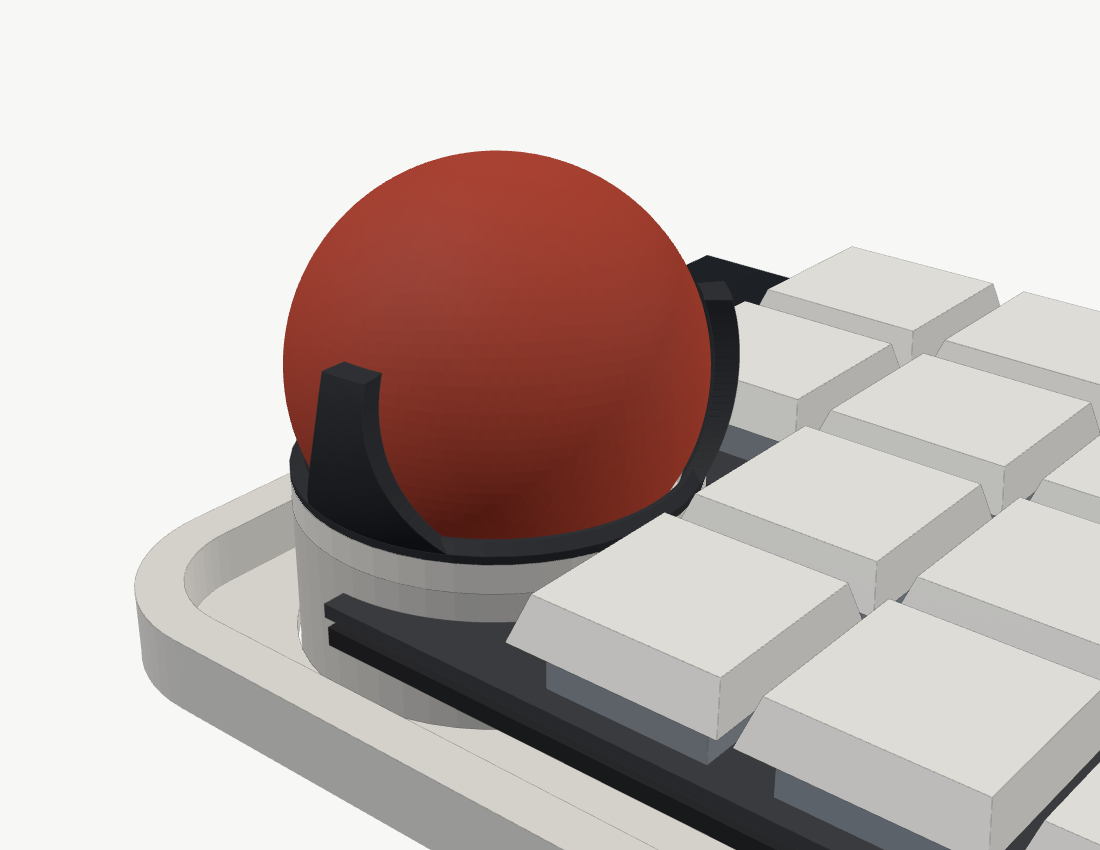
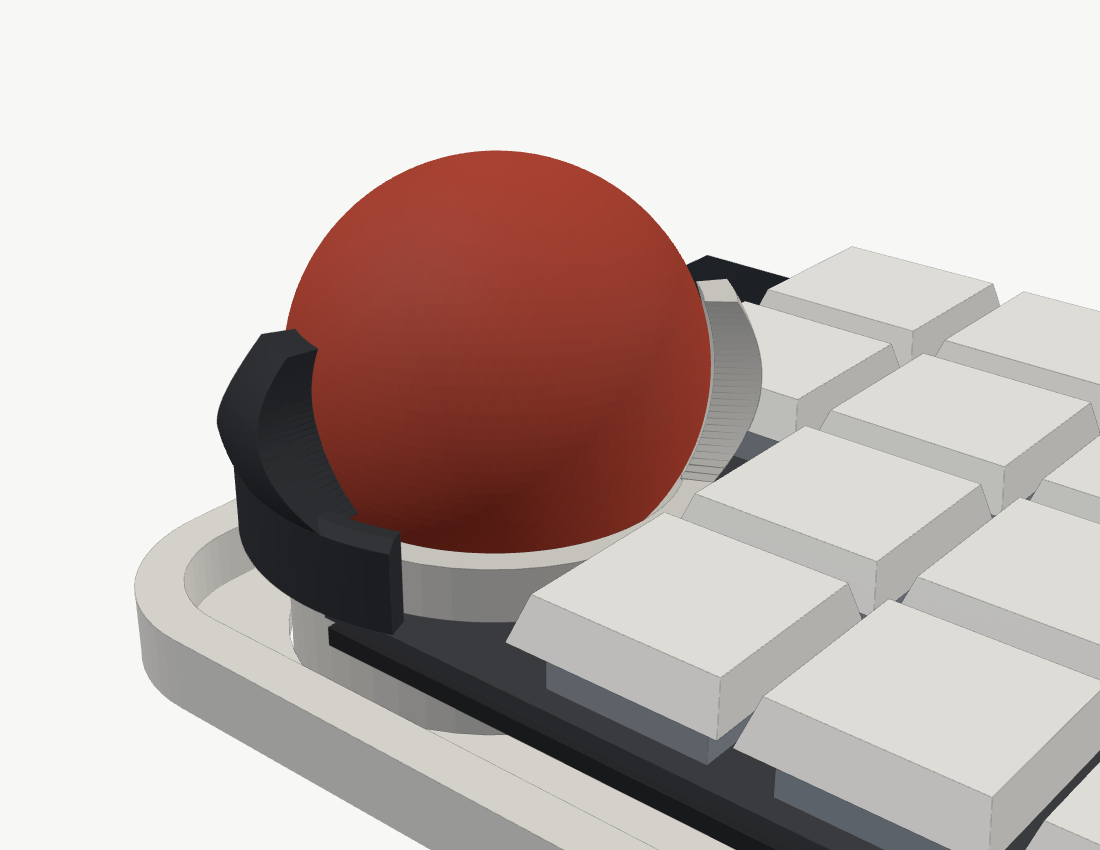
Concept: dedicated 34mm ball unit with fixed claw and outer twist-lock hood
Claude-Session: https://claude.ai/code/session_017zNm7dMSTHELcztuNr6aNy

Changed region(s): [[0.1855, 0.3059, 0.7109, 0.7953], [0.4018, 0.8565, 0.4636, 0.8871], [0.3709, 0.8259, 0.4018, 0.8565]]

diff --git a/case/concept_ukishima.py b/case/concept_ukishima.py
@@ -31,10 +31,30 @@ bu.BASE_FLOOR = 1.0
 bu.SENSOR_TOP = bu.BASE_FLOOR - bu.SENSOR_POCKET + bu.SENSOR_T
 bu.BALL_BOTTOM = bu.SENSOR_TOP + bu.LENS_H + bu.LENS_GAP
 
-# --- 34mm ボール (画像用): 土台は同じ (外径 34mm)。ボールが外径いっぱいなので専用のカップと低いリングを使う ---
-# ベアリングはボールの下寄り (55°) で支え、爪はキーのない 3 か所でキーキャップより上を外へふくらむ
+# --- 34mm ボール: 専用ユニット (人差し指と中指で転がす向き) ---
+# 34mm はボールが重く、指で押す力も大きいので、25 / 19mm と土台を共用しない。
+#  - 土台とカップを一体に (受けの壁が 2 重にならない分、壁が厚い)。外径 35.4mm (基板の穴 36mm に収まる)
+#  - ボールの一番太い所 (赤道) がキーキャップより上にあるので、ボールの下半分を囲むリングは作れない
+#    (リングがボールに引っかかって、カバーが外せなくなる)。カバーは「赤道より下ではボールの外側だけ」を通る形にする
+#  - 爪 3 本: 45° (キーの角のあいだ) は土台と一体の「固定の爪」。170° と 250° はカバーの爪
+#  - カバーは、キーも基板もない左手前の空き (140〜290°) を囲む「フード」。外側でひねってロックする
+#  - 指は右手前から来る (ボールの手前に手のひら) ので、そこ (爪のすき間 155° の真ん中) を広くあける
 bu.CUPS[34] = {"R": 17.0, "contact": 55}
-RING_TOP_34 = 17.5                # 34mm のリングの上面 (ボールが太いので低くして、壁の厚さを確保)
+U34_R = 17.7                      # 34mm ユニットの外径 (半径)。基板・プレートの穴 (半径 18) とのすき間 0.3mm
+U34_TOP = 16.0                    # 一体型の受けの上面
+CLAWS_34 = (45, 170, 250)         # 爪の向き (すき間 125° / 80° / 155°)
+FIXED_CLAW_34 = 45                # 土台と一体の爪
+FIXED34_ROOT_W, FIXED34_MAX_R = 11.0, 20.0     # 固定の爪: キーの角のあいだ (約 6mm) に収まる幅・ふくらみ
+CLAW34_ROOT_W, CLAW34_TIP_W, CLAW34_TIP_T = 18.0, 5.0, 2.6
+CLAW34_BULGE = 1.2                # 34mm の爪の中ほどを厚くする量
+# フード (カバー): 左手前の空きを囲む C 形の壁。ひねってロック (さし込む時は +30° の位置)
+HOOD34_A = (140, 290)             # フードの範囲 (ロックした時)
+HOOD34_IN, HOOD34_OUT = 19.4, 21.4
+HOOD34_Z0, HOOD34_TOP = 11.9, 19.5    # 下はプレートの上面 (11.65) より上・上はキーキャップより上
+LOCK34_A = (180, 260)             # ツメの位置 (ロックした時)。基板の切り欠きの中
+LOCK34_W = 20.0                   # ツメの幅 (角度)
+LEDGE34_Z0, LEDGE34_Z1, LEDGE34_R = 13.0, 14.2, 19.2   # 土台の外の出っぱり (ツメがこの下に入る)
+HOOK34_Z0, HOOK34_Z1, HOOK34_R = 11.9, 12.9, 18.0      # フードの内側のツメ
 
 # --- 高さ (机から) ---
 FLOOR = 1.5          # トレイの床
@@ -100,30 +120,20 @@ def keycap(x, y, z0, z1):
     return mf.Manifold.batch_hull([lo, hi])
 
 
-def claw_cover(size):
-    """低いリング＋爪 3 本の「爪留め」カバー。ひねってロックする部分は ball_unit と同じ (34mm は未設計)"""
+def claws(size, cz, rin, ring_top, r_base, angles, root_w, tip_w, tip_t, low_max=None, bulge=0.0):
+    """爪 (リングの外周から曲線で立ち上がり、ボールにそって先が 0.7mm かぶる)"""
     R_ = bu.CUPS[size]["R"]
-    cz = bu.BALL_BOTTOM + R_
-    ring_top = RING_TOP_34 if size == 34 else RING_TOP
-    ring = k.cyl(0, 0, bu.CUP_TOP, ring_top, bu.UNIT_R)
-    if size != 34:
-        ring = ring - k.cyl(0, 0, bu.CUP_TOP - 1, ring_top + 1, R_ + 0.8)
-    # 上の外側の角を丸く見せる面取り
-    ring = ring - (k.cyl(0, 0, ring_top - 0.8, ring_top + 0.01, bu.UNIT_R + 1) -
-                   k.cyl(0, 0, ring_top - 0.8, ring_top + 0.01, bu.UNIT_R, bu.UNIT_R - 0.8))
-    rin = R_ + 0.3                                           # 爪の内側 (ボールとのすき間 0.3mm)
     tip_r = R_ - CLAW_OVER                                   # 爪の先の半径
     tip_z = cz + (rin**2 - tip_r**2) ** 0.5                  # 爪の先の高さ (ボールの赤道より上)
-    claws = []
-    r_base = bu.UNIT_R                                       # 根元の外側 = リングの外周
-    r_tip = tip_r + CLAW_TIP_T                               # 先の外側
+    r_tip = tip_r + tip_t                                    # 先の外側
     z_root = ring_top - 0.8
     h = tip_z - z_root
 
     def ball_r(z):
         return math.sqrt(max(rin**2 - (z - cz)**2, 0))
     t_root = r_base - ball_r(z_root)                         # 根元の厚さ (ボールの外側へ)
-    for a in CLAWS:
+    out = []
+    for a in angles:
         slices = []
         for i in range(CLAW_STEPS + 1):
             t = i / CLAW_STEPS
@@ -131,16 +141,43 @@ def claw_cover(size):
             # 外側の面: 根元では縦 (リングの外周に接する)、先に向かって内側へ曲がる
             r_out = r_tip + (r_base - r_tip) * math.cos(math.pi / 2 * t)
             # 大きいボール (34mm) は赤道がリングより上なので、ボールの丸みに沿って外へふくらませる
-            r_out = max(r_out, ball_r(z) + t_root + (CLAW_TIP_T - t_root) * t)
+            r_out = max(r_out, ball_r(z) + t_root + (tip_t - t_root) * t + bulge * math.sin(math.pi * t))
+            if low_max and z < KEY_TOP + 0.5:
+                r_out = min(r_out, low_max)                  # キーキャップの高さまではふくらませない
             # 幅: 根元は広く、先へ向かって曲線で細くなる
-            w = CLAW_TIP_W + (CLAW_ROOT_W - CLAW_TIP_W) * (1 - t) ** 2.2
+            w = tip_w + (root_w - tip_w) * (1 - t) ** 2.2
             half = math.degrees(w / 2 / r_out)
             slices.append(bu.sector(0, r_out, a - half, a + half, z - 0.01, z))
-        claws.append(k.union([mf.Manifold.batch_hull([slices[n], slices[n + 1]]) for n in range(CLAW_STEPS)]))
-    m = ring + k.union(claws)
-    m = m - mf.Manifold.sphere(rin, 128).translate([0, 0, cz])              # 爪の内側をボールに沿わせる
+        out.append(k.union([mf.Manifold.batch_hull([slices[n], slices[n + 1]]) for n in range(CLAW_STEPS)]))
+    return k.union(out), tip_z
+
+
+def chamfer_top(m, z, r):
+    """上の外側の角を丸く見せる面取り"""
+    return m - (k.cyl(0, 0, z - 0.8, z + 0.01, r + 1) - k.cyl(0, 0, z - 0.8, z + 0.01, r, r - 0.8))
+
+
+def claw_cover(size):
+    """低いリング＋爪 3 本の「爪留め」カバー。ひねってロックする"""
+    R_ = bu.CUPS[size]["R"]
+    cz = bu.BALL_BOTTOM + R_
+    rin = R_ + 0.3                                           # 爪の内側 (ボールとのすき間 0.3mm)
+    ball = mf.Manifold.sphere(rin, 160).translate([0, 0, cz])
     if size == 34:
-        return m, tip_z
+        a0, a1 = HOOD34_A
+        hood = chamfer_top(bu.sector(HOOD34_IN, HOOD34_OUT, a0, a1, HOOD34_Z0, HOOD34_TOP), HOOD34_TOP, HOOD34_OUT)
+        hooks = k.union([bu.sector(HOOK34_R, HOOD34_IN + 0.1, L - LOCK34_W/2, L + LOCK34_W/2, HOOK34_Z0, HOOK34_Z1)
+                         for L in LOCK34_A])
+        cl, tip_z = claws(34, cz, rin, HOOD34_TOP, HOOD34_OUT, [a for a in CLAWS_34 if a != FIXED_CLAW_34],
+                          CLAW34_ROOT_W, CLAW34_TIP_W, CLAW34_TIP_T, bulge=CLAW34_BULGE)
+        m = hood + hooks + (cl - k.cyl(0, 0, 0, HOOD34_Z0 + 0.5, 40))
+        # 赤道より下ではボールの外側だけ (上へ抜ける)・土台にも触れない
+        m = m - k.cyl(0, 0, 0, cz, R_ + 0.3) - k.cyl(0, 0, 0, U34_TOP + 0.5, U34_R + 0.2)
+        return m - ball, tip_z
+    ring = k.cyl(0, 0, bu.CUP_TOP, RING_TOP, bu.UNIT_R) - k.cyl(0, 0, bu.CUP_TOP - 1, RING_TOP + 1, R_ + 0.8)
+    ring = chamfer_top(ring, RING_TOP, bu.UNIT_R)
+    cl, tip_z = claws(size, cz, rin, RING_TOP, bu.UNIT_R, CLAWS, CLAW_ROOT_W, CLAW_TIP_W, CLAW_TIP_T)
+    m = (ring + cl) - ball                                                  # 爪の内側をボールに沿わせる
     spigot = (k.cyl(0, 0, bu.RECESS_Z + 0.2, bu.CUP_TOP + 0.01, bu.SPIGOT_R) -
               k.cyl(0, 0, bu.RECESS_Z, bu.CUP_TOP + 1, R_ + 0.5))
     lugs = k.union([bu.sector(bu.SPIGOT_R - 0.3, bu.LUG_R, L - bu.LUG_W/2, L + bu.LUG_W/2,
@@ -148,15 +185,50 @@ def claw_cover(size):
     return m + spigot + lugs, tip_z
 
 
-def ball_cup(size):
-    if size != 34:
-        return bu.cup(size)
-    keep = bu.LUG_ANGLES, bu.CLEAR
-    bu.LUG_ANGLES, bu.CLEAR = (), 0.5          # 34mm: ひねるロックの溝はまだ無し (専用のロックは今後)
-    try:
-        return bu.cup(34)
-    finally:
-        bu.LUG_ANGLES, bu.CLEAR = keep
+def base34():
+    """34mm 専用: 土台とカップが一体の受け。底は 25 / 19mm の土台と同じ (センサー・ネジ 3 本・ケーブルの出口)"""
+    R = 17.0
+    cz = bu.BALL_BOTTOM + R
+    m = k.cyl(0, 0, 0, U34_TOP, U34_R)
+    m = m - k.cyl(0, 0, bu.BASE_FLOOR, bu.CUP_BOTTOM, U34_R - 1.5)                       # センサーの部屋
+    bosses, cut = [], []
+    for a in k.BALL_SCREW_ANGLES:
+        x, y = bu.polar(k.BALL_SCREW_R, a)
+        bosses.append(k.cyl(x, y, 0, bu.CUP_BOTTOM, bu.BOSS_R))
+        cut.append(k.cyl(x, y, -1, bu.INSERT_DEPTH, bu.INSERT_R))
+    m = (m + k.union(bosses)) - k.union(cut)
+    cut = [
+        k.cube(-bu.SENSOR_W/2 - 0.2, -bu.SENSOR_L/2 - 0.2, bu.BASE_FLOOR - bu.SENSOR_POCKET,
+               bu.SENSOR_W/2 + 0.2, bu.SENSOR_L/2 + 0.2, bu.BASE_FLOOR + 1),
+        bu.rot_z(k.cube(-4.5, U34_R - 3, bu.BASE_FLOOR - bu.SENSOR_POCKET, 4.5, U34_R + 1, 5.5), bu.CABLE_ANGLE - 90),
+        mf.Manifold.sphere(R + 0.5, 160).translate([0, 0, cz]),                          # ボールの受け
+        k.cyl(0, 0, bu.CUP_BOTTOM - 1, cz, bu.LENS_HOLE_R),                               # センサーの窓
+    ]
+    # ベアリング (ボールの下寄り 55° で支える)。軸のネジはユニットの外から締める
+    t = math.radians(bu.CUPS[34]["contact"])
+    d = R + bu.BRG_R
+    for a in bu.BRG_ANGLES:
+        w = bu.BRG_W/2 + bu.BRG_SIDE
+        pocket = (bu.along_x_cyl(bu.BRG_R + 0.4, 2*w) + k.cube(-w, -(bu.BRG_R + 0.4), 0, w, bu.BRG_R + 0.4, 20))
+        reach = math.sqrt(U34_R**2 - (d*math.cos(t))**2) + 1
+        head0 = w + bu.NEAR_WALL
+        screw = (bu.x_cyl(bu.SCREW_PASS_R, 0, head0 + 0.1) + bu.x_cyl(bu.SCREW_HEAD_R, head0, reach) +
+                 bu.x_cyl(bu.SCREW_PILOT_R, -(head0 - bu.NEAR_WALL + bu.SCREW_L - bu.NEAR_WALL + 0.8), 0))
+        place = lambda m_, a=a: bu.rot_z(m_, a - 90).translate(
+            [d*math.cos(t)*math.cos(math.radians(a)), d*math.cos(t)*math.sin(math.radians(a)), cz - d*math.sin(t)])
+        cut += [place(pocket), place(screw)]
+    m = m - k.union(cut)
+    # 固定の爪 (土台と一体・回らないのでキーの角のあいだいっぱいまで太くできる)
+    rin = R + 0.3
+    fixed, _ = claws(34, cz, rin, U34_TOP + 0.8, U34_R, (FIXED_CLAW_34,), FIXED34_ROOT_W, CLAW34_TIP_W,
+                     CLAW34_TIP_T, low_max=FIXED34_MAX_R, bulge=CLAW34_BULGE)
+    m = m + (fixed - mf.Manifold.sphere(rin, 160).translate([0, 0, cz]))
+    # ロックの出っぱり (左手前・基板の切り欠きの中)。フードのツメがこの下に入る。手前に小さな山 (カチッ)
+    m = m + k.union([bu.sector(U34_R - 0.5, LEDGE34_R, L - LOCK34_W/2 - 1, L + LOCK34_W/2 + 1, LEDGE34_Z0, LEDGE34_Z1)
+                     for L in LOCK34_A])
+    m = m + k.union([bu.sector(U34_R - 0.5, HOOK34_R + 0.3, L + LOCK34_W/2 + 1.5, L + LOCK34_W/2 + 4,
+                               HOOK34_Z0 + 0.1, HOOK34_Z1 - 0.1) for L in LOCK34_A])
+    return m, {"cz": cz}
 
 
 def half(side, size=25):
@@ -169,7 +241,7 @@ def half(side, size=25):
     tray = k.prism(outer, 0, RIM) - k.prism(outer.buffer(-4.0), FLOOR, RIM + 1)
     if side == "right":
         bx, by = k.HALVES["right"]["ball"]
-        tray = tray - k.cyl(bx, by, -1, FLOOR + 1, bu.UNIT_R + 0.3)
+        tray = tray - k.cyl(bx, by, -1, FLOOR + 1, (U34_R if size == 34 else bu.UNIT_R) + 0.3)
     parts["tray"] = tray
     # 柱とガスケット・ネジ (下から留める)
     posts, pads, metal = [], [], []
@@ -205,10 +277,14 @@ def half(side, size=25):
 
         def at(m):
             return m.translate([bx, by, BALL_Z0])
-        cup, info = ball_cup(size)
         cover, _ = claw_cover(size)
-        parts["ball_base"] = at(bu.base())
-        parts["ball_cup"] = at(cup)
+        if size == 34:
+            base, info = base34()
+            parts["ball_base"] = at(base)
+        else:
+            cup, info = bu.cup(size)
+            parts["ball_base"] = at(bu.base())
+            parts["ball_cup"] = at(cup)
         parts["ball_cover"] = at(cover)
         parts["ball"] = at(mf.Manifold.sphere(bu.CUPS[size]["R"], 128).translate([0, 0, info["cz"]]))
     return parts
